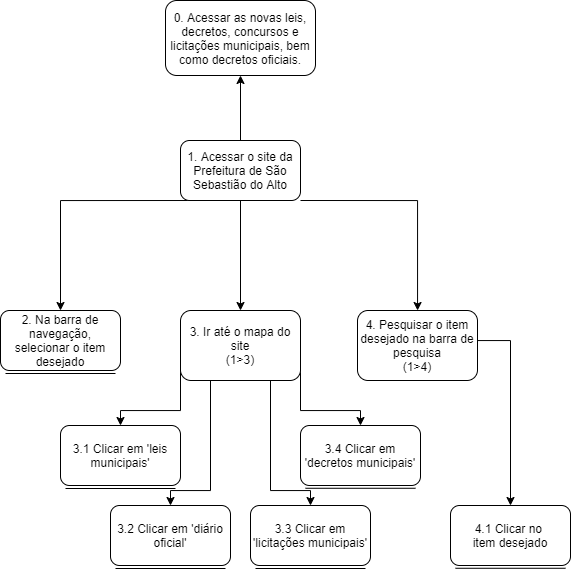
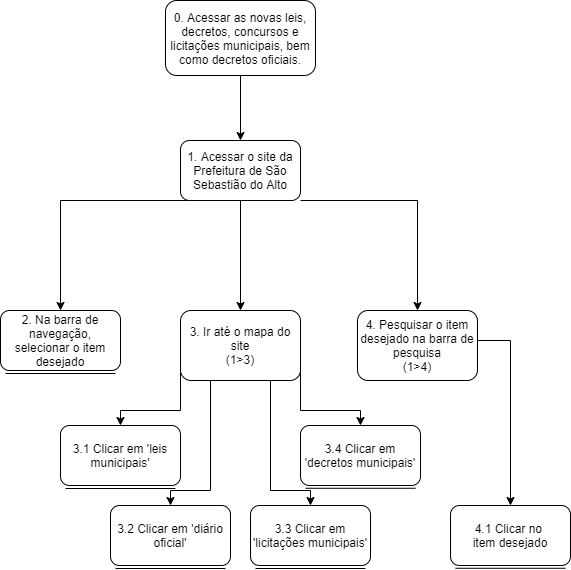
Adicionada correcoes do documento de analise de tarefas

diff --git a/docs/proj/analiseDeTarefas.md b/docs/proj/analiseDeTarefas.md
@@ -19,13 +19,9 @@ A especificação do relacionamento entre subojetivos é chamada de <strong>plan
 #### Diagrama HTA
 No diagrama de análise os objetivos e subobjetivos são representados por retângulos enquanto as operações são representadas por retângulos com uma linha abaixo, enquanto os relacionamentos são representados por números e símbolos que indicam os subobjetivos pertencentes ao relacionamento.
 
-| Relacionamento | Indicador |
-| :------------- | :-------- |
-| Sequencial     | 1>2       |
-| Seleção        | 1/2       |
-| Paralelo       | 1+2       |
+![HTA_elementos](./../../assets/img/hta_elementos.png)
 
-<figcaption>Tabela 1 - Indicadores de relacionamentos em um diagrama HTA</figcaption>
+<figcaption>Figura 1 - Elementos de um diagrama HTA. Autor: Barbosa e Silva (2019)</figcaption>
 
 ### Tabela HTA
 Além do diagrama, também é possível representar uma Análise de hierárquica de tarefas na forma de tabela, onde serão acrescentadas as informações sobre as circunstancias na qual uma operação foi realizada: <strong>ação</strong>, <strong>input</strong> e <strong>feedback</strong>.
@@ -35,7 +31,7 @@ Além do diagrama, também é possível representar uma Análise de hierárquica
 
 ### Ana Carolina
 ![HTA_ana](./../../assets/img/hta_ana.png)
-<figcaption>Figura 1 - Diagrama HTA</figcaption>
+<figcaption>Figura 2 - Diagrama HTA. Autores: Philipe Serafim e Pedro Lima</figcaption>
 
 
 | Objetivos e Operações                                                                             | Problemas e Recomendações                                                                 |
@@ -50,12 +46,12 @@ Além do diagrama, também é possível representar uma Análise de hierárquica
 | 3.4 Clicar em 'decretos municipais'                                                               |                                                                                           |
 | 4. Pesquisar o item (1>4)                                                                         | input: digitar o item desejado na barra de pesquisa                                       |
 | 4.1 Clicar no item desejado                                                                       |                                                                                           |
-<figcaption> Tabela 2 - Tabela HTA</figcaption>
+<figcaption> Tabela 1 - Tabela HTA. Autores: Philipe Serafim e Pedro Lima</figcaption>
 
 
 ### Carlos Silva
 ![HTA_carlos](./../../assets/img/hta_carlos.png)
-<figcaption>Figura 2 - Diagrama HTA</figcaption>
+<figcaption>Figura 3 - Diagrama HTA. Autores: Philipe Serafim e Pedro Lima</figcaption>
 
 | Objetivos e Operações                                    | Problemas e Recomendações                                                                                       |
 | :------------------------------------------------------- | :-------------------------------------------------------------------------------------------------------------- |
@@ -68,11 +64,11 @@ Além do diagrama, também é possível representar uma Análise de hierárquica
 | 3.2 Clicar em 'Eventos'                                  |                                                                                                                 |
 | 4. Na barra de navegação, clicar no item desejado(1>4)   | plano: acessar site para então ir até a área citada<br>recomendação: organizar os eventos ded forma cronológica |
 | 4.1 Clicar no evento desejado                            |                                                                                                                 |
-<figcaption> Tabela 3 - Tabela HTA</figcaption>
+<figcaption> Tabela 2 - Tabela HTA. Autores: Philipe Serafim e Pedro Lima</figcaption>
 
 ### Maria Tereza
 ![HTA_maria](./../../assets/img/hta_maria.png)
-<figcaption>Figura 3 - Diagrama HTA</figcaption>
+<figcaption>Figura 4 - Diagrama HTA. Autores: Philipe Serafim e Pedro Lima</figcaption>
 
 
 | Objetivos e Operações                                                     | Problemas e Recomendações                                                                       |
@@ -86,7 +82,7 @@ Além do diagrama, também é possível representar uma Análise de hierárquica
 | 3.1 Clicar no 'Boletim COVID-19'                                          |                                                                                                 |
 | 4. Ir até o mapa do site(3>1)                                             | plano: acessar o site para então ir até a página especificada                                   |
 | 4.1 Clicar no Boletim-COVID                                               |                                                                                                 |
-<figcaption> Tabela 4 - Tabela HTA</figcaption>
+<figcaption> Tabela 3 - Tabela HTA. Autores: Philipe Serafim e Pedro Lima</figcaption>
 
 
 
@@ -96,8 +92,9 @@ Além do diagrama, também é possível representar uma Análise de hierárquica
 
 ## Versionamento
 
-|    Data    | Versão |              Alteração              |             Responsável(eis)             |
-| :--------: | :----: | :---------------------------------: | :--------------------------------------: |
-| 26/08/2021 |  1.0   |         Análise de tarefas          | Pedro Lima</br>Philipe Serafim (revisor) |
-| 27/08/2021 |  1.1   |        Complementação do HTA        |             Philipe Serafim              |
-| 27/08/2021 |  1.2   | Criação dos diagramas e tabelas HTA |             Philipe Serafim              |
+|    Data    | Versão |                     Alteração                     |             Responsável(eis)             |
+| :--------: | :----: | :-----------------------------------------------: | :--------------------------------------: |
+| 26/08/2021 |  1.0   |                Análise de tarefas                 | Pedro Lima</br>Philipe Serafim (revisor) |
+| 27/08/2021 |  1.1   |               Complementação do HTA               |             Philipe Serafim              |
+| 27/08/2021 |  1.2   |        Criação dos diagramas e tabelas HTA        |             Philipe Serafim              |
+| 02/09/2021 |  1.3   | Realização das correção indicadas na apresentação |             Philipe Serafim              |

diff --git a/docs/proj/perfilDeUsuario.md b/docs/proj/perfilDeUsuario.md
@@ -113,5 +113,5 @@ Anti-personas são os usuários que o produto não deve ou consegue atingir devi
 | 1.0    | 26/08/2021 | Introdução e Metodologia                       | Gabriel Avelino |
 | 1.1    | 26/03/2021 | Personas adicionadas                           | Ítalo Serra     |
 | 1.2    | 27/03/2021 | Adicionando imagens Personas                   | Ítalo Serra     |
-| 1.1    | 27/03/2021 | Adicionando anti-persona                       | Gabriel Avelino |
-| 1.2    | 28/03/2021 | Adicionando bibliografia e revisando documento | Philipe Serafim |
+| 1.3    | 27/03/2021 | Adicionando anti-persona                       | Gabriel Avelino |
+| 1.4    | 28/03/2021 | Adicionando bibliografia e revisando documento | Philipe Serafim |
